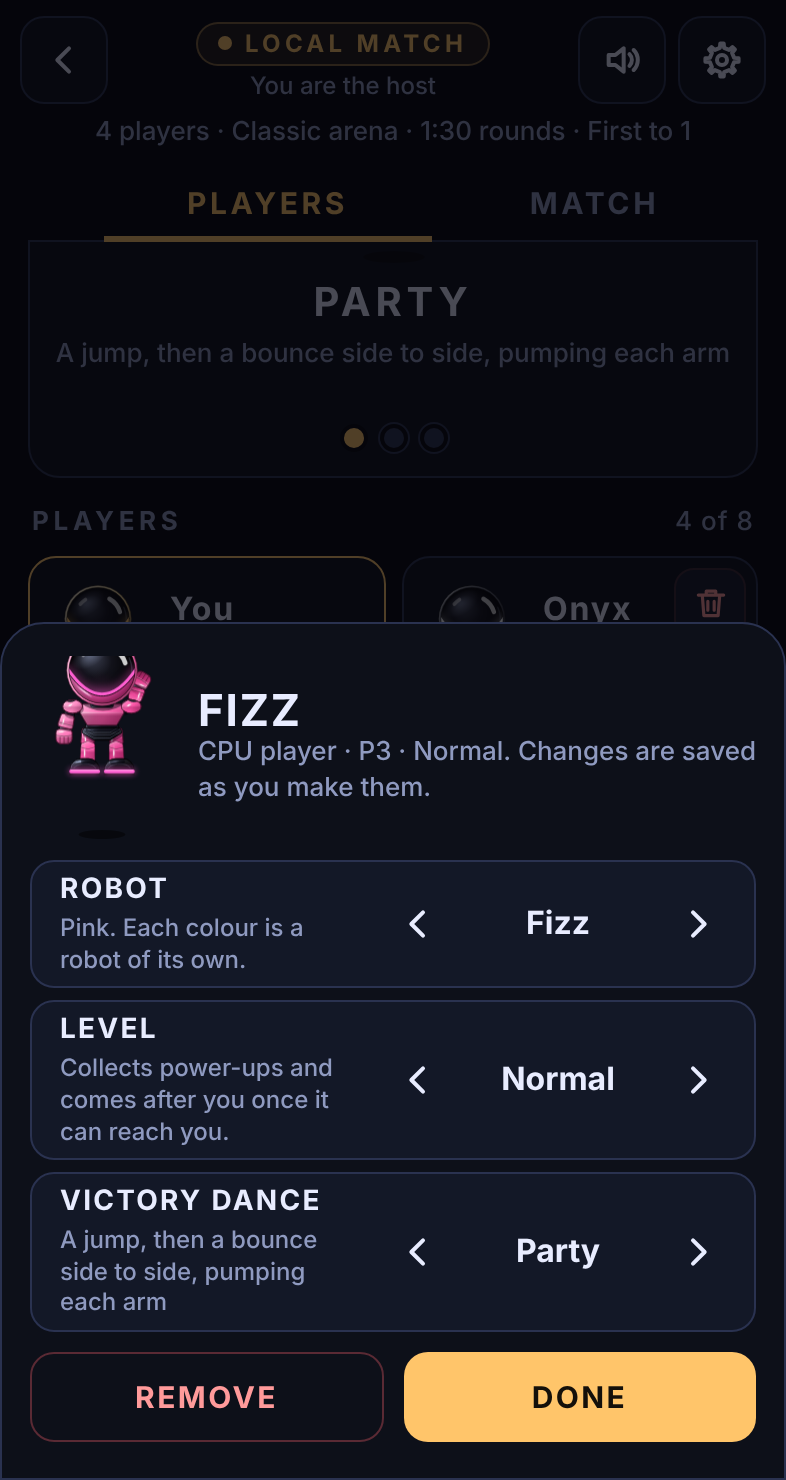
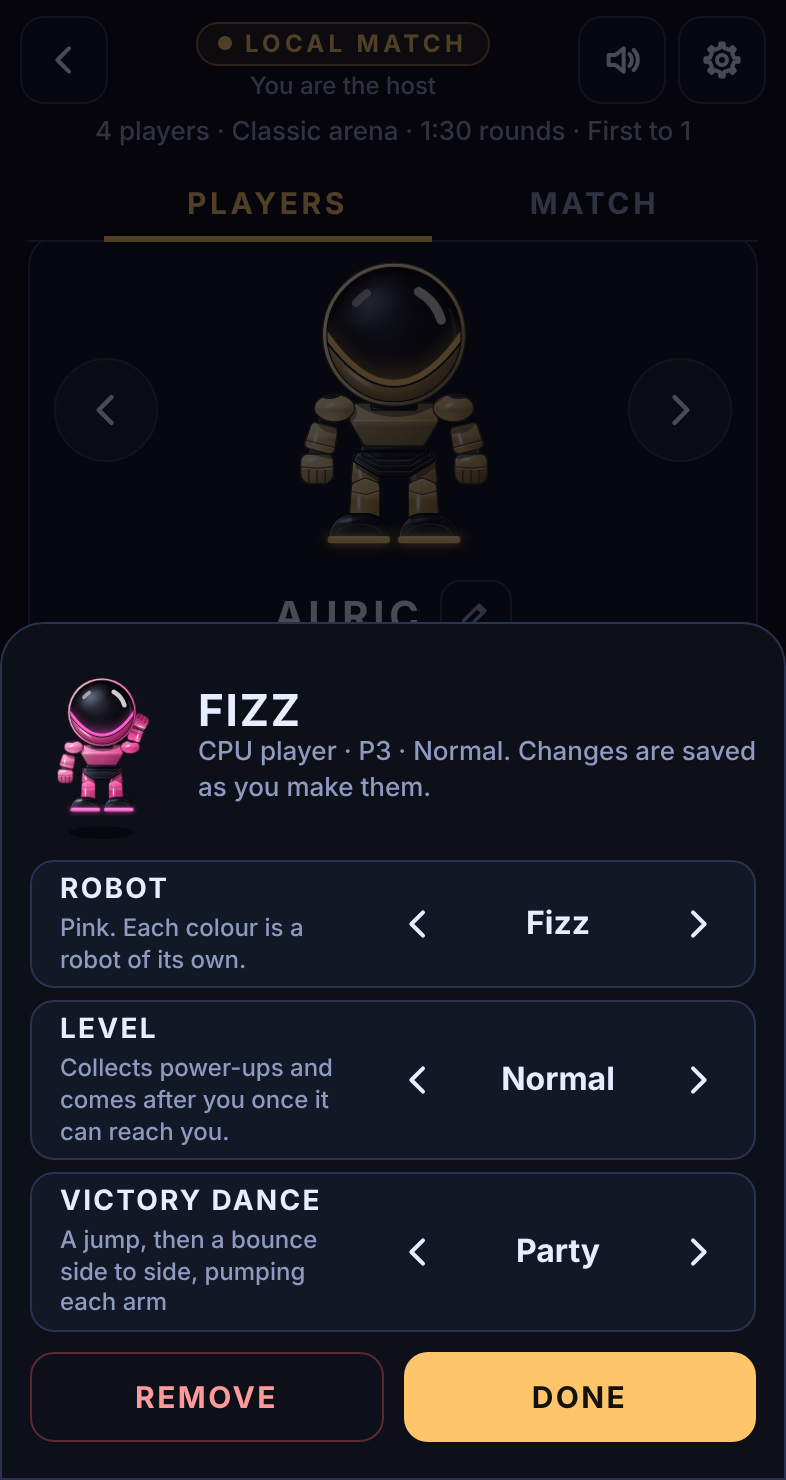
Victory dance as a small option on each player card
- The big Victory dance panel is gone
- Every card has a small ‹ ♪ dance › row along its foot; arrows, a tap on the name or a swipe across
  the card pick it, and the card's robot dances it once through, kept inside the card
- A swipe on a CPU card changes its dance without opening its panel

Claude-Session: https://claude.ai/code/session_011ftAyXDt63myZfd3j4Vhew

diff --git a/src/lobby.ts b/src/lobby.ts
@@ -190,43 +190,16 @@ export function createLobby(host: LobbyHost): {
   $('colNext').addEventListener('click', () => stepMine(1));
   swipeable($('youBot').closest<HTMLElement>('.panel')!, stepMine); // the whole robot panel
 
-  // ------------------------------------------------------------ your victory dance (the owner's ask)
-  // ‹ ›, a dot each, or a swipe anywhere on its panel; it plays over and over in the panel as you look
-  $('dancePrev').addEventListener('click', () => stepMyDance(-1));
-  $('danceNext').addEventListener('click', () => stepMyDance(1));
-  swipeable($('danceBot').closest<HTMLElement>('.panel')!, stepMyDance);
-  for (const d of DANCES) {
-    const b = document.createElement('button');
-    b.type = 'button';
-    b.className = 'dot';
-    b.id = `dance-${d.id}`;
-    b.setAttribute('aria-label', `${d.name} dance`);
-    b.addEventListener('click', () => setMyDance(d.id));
-    $('danceDots').append(b);
+  // ------------------------------------------------------------ victory dances (the owner's design)
+  // Each card has a small ‹ dance › along its foot; arrows, a tap on the name, or a swipe across the card
+  // pick it, and the card's robot then does it once through. Another player here also uses up and down on
+  // their controller. A CPU player's dance is on its panel too, where its robot dances while it is open.
+  /** the cards doing their dance just now, by who (`me`, `g<pad>`, `c<i>`), and since when */
+  const previews = new Map<string, number>();
+  function preview(who: string): void {
+    previews.set(who, performance.now());
+    startDancing();
   }
-  function stepMyDance(d: number): void {
-    setMyDance(stepDance(host.myDance, d));
-  }
-  function setMyDance(id: DanceId): void {
-    if (id === host.myDance) return;
-    host.myDance = id;
-    host.save();
-    danceFrom = performance.now(); // play the new one from its start
-    refreshDance();
-  }
-  function refreshDance(): void {
-    const d = danceOf(host.myDance);
-    $('danceName').textContent = d.name;
-    $('danceBlurb').textContent = d.blurb;
-    $('danceCount').textContent = `${DANCES.indexOf(d) + 1} of ${DANCES.length}`;
-    $('danceBot').setAttribute('aria-label', `Your robot doing the ${d.name} dance`);
-    for (const d2 of DANCES) $(`dance-${d2.id}`).setAttribute('aria-pressed', String(d2.id === d.id));
-  }
-
-  /**
-   * The dances, playing: yours in its panel, each other player's here on their card, and a CPU player's in its
-   * panel while that is open. One loop, while the lobby is showing; a canvas not on screen is skipped.
-   */
   let danceFrom = performance.now();
   let looping = false;
   function danceLoop(now: number): void {
@@ -234,15 +207,83 @@ export function createLobby(host: LobbyHost): {
       looping = false;
       return;
     }
-    const t = (now - danceFrom) / 1000;
-    drawDancer($<HTMLCanvasElement>('danceBot'), pick, host.myDance, t, 0.62);
-    for (const g of guests()) {
-      const cv = document.querySelector<HTMLCanvasElement>(`#guest-${g.pad} canvas`);
-      if (cv) drawDancer(cv, g.pick, g.dance, t, 0.8);
+    for (const [who, from] of previews) {
+      const cv = document.querySelector<HTMLCanvasElement>(`canvas[data-who="${who}"]`);
+      const colour = cardColour(who);
+      if (!cv || !colour) {
+        previews.delete(who);
+        continue;
+      }
+      const t = (now - from) / 1000;
+      const d = cardDance(who);
+      if (t >= PREVIEW[d]) {
+        previews.delete(who);
+        drawBotOn(cv, colour); // done: standing again
+      } else drawDancer(cv, colour, d, t, 0.8);
     }
     const c = s().cpus[editing];
-    if (!sheet.hidden && c) drawDancer($<HTMLCanvasElement>('cpuBot'), c.colorId, c.dance ?? 'party', t, 0.78);
-    requestAnimationFrame(danceLoop);
+    if (!sheet.hidden && c) drawDancer($<HTMLCanvasElement>('cpuBot'), c.colorId, c.dance ?? 'party', (now - danceFrom) / 1000, 0.78);
+    if (previews.size || !sheet.hidden) requestAnimationFrame(danceLoop);
+    else looping = false;
+  }
+  /** whose card: its robot's colour now, and its dance */
+  function cardColour(who: string): string | null {
+    if (who === 'me') return host.myColor;
+    if (who[0] === 'g') return guestOf(Number(who.slice(1)))?.pick ?? null;
+    return s().cpus[Number(who.slice(1))]?.colorId ?? null;
+  }
+  function cardDance(who: string): DanceId {
+    if (who === 'me') return host.myDance;
+    if (who[0] === 'g') return guestOf(Number(who.slice(1)))?.dance ?? 'party';
+    return s().cpus[Number(who.slice(1))]?.dance ?? 'party';
+  }
+  function setCardDance(who: string, id: DanceId): void {
+    if (who === 'me') {
+      host.myDance = id;
+      host.save();
+    } else if (who[0] === 'g') {
+      const g = guestOf(Number(who.slice(1)));
+      if (g) g.dance = id;
+    } else {
+      const c = s().cpus[Number(who.slice(1))];
+      if (!c) return;
+      c.dance = id;
+      host.save();
+      refreshCpu();
+    }
+    const name = document.getElementById(`dp-name-${who}`);
+    if (name) {
+      name.textContent = danceOf(id).name;
+      name.setAttribute('aria-label', `Victory dance: ${danceOf(id).name}. Tap to see it.`);
+    }
+    preview(who);
+  }
+  /** The small ‹ dance › along the foot of a card, and a swipe across the whole card. */
+  function dancePick(wrap: HTMLElement, who: string): void {
+    const row = document.createElement('div');
+    row.className = 'dance-pick';
+    row.setAttribute('role', 'group');
+    row.setAttribute('aria-label', 'Victory dance');
+    const mk = (id: string, html: string, label: string, act: () => void): HTMLButtonElement => {
+      const b = document.createElement('button');
+      b.type = 'button';
+      b.id = id;
+      b.innerHTML = html;
+      b.setAttribute('aria-label', label);
+      b.addEventListener('click', act);
+      return b;
+    };
+    const step = (d: number): void => setCardDance(who, stepDance(cardDance(who), d));
+    const name = mk(`dp-name-${who}`, '', `Victory dance: ${danceOf(cardDance(who)).name}. Tap to see it.`, () => preview(who));
+    name.className = 'dp-name';
+    name.textContent = danceOf(cardDance(who)).name;
+    row.append(
+      mk(`dp-prev-${who}`, '<svg viewBox="0 0 24 24" aria-hidden="true"><path d="M15 5l-7 7 7 7"/></svg>', 'Previous dance', () => step(-1)),
+      name,
+      mk(`dp-next-${who}`, '<svg viewBox="0 0 24 24" aria-hidden="true"><path d="M9 5l7 7-7 7"/></svg>', 'Next dance', () => step(1)),
+    );
+    wrap.append(row);
+    swipeable(wrap, step);
   }
   function startDancing(): void {
     if (looping) return;
@@ -251,8 +292,11 @@ export function createLobby(host: LobbyHost): {
   }
   /** How long each dance plays before it starts again, in the lobby: a whole go, start included. */
   const PREVIEW: Record<DanceId, number> = { party: 3.4, spin: 4.2, griddy: 5.24 };
-  /** A robot doing a dance on a canvas, small enough for its jumps and slides to stay inside. */
-  function drawDancer(cv: HTMLCanvasElement, colorId: string, dance: DanceId, t: number, fill: number): void {
+  /**
+   * A robot doing a dance on a card's canvas: a little smaller than it stands there, and with its jumps
+   * halved, so the jumps and slides stay inside the card.
+   */
+  function drawDancer(cv: HTMLCanvasElement, colorId: string, dance: DanceId, t: number, _fill = 0): void {
     const r = cv.getBoundingClientRect();
     if (r.width < 2 || r.height < 2) return;
     const dpr = host.density();
@@ -265,9 +309,10 @@ export function createLobby(host: LobbyHost): {
     const g = cv.getContext('2d')!;
     g.setTransform(1, 0, 0, 1, 0, 0);
     g.clearRect(0, 0, w, h);
-    const size = Math.min((h * fill) / -ROBOT.top, (w * 0.7) / 0.78);
+    const size = 0.8 * Math.min((h * 0.92) / -ROBOT.top, (w * 0.95) / 0.78); // drawBotOn's size, 80%
     const f = danceFrame(dance, t % PREVIEW[dance]);
-    drawRobot(g, w / 2 + f.dx * size, h * 0.97, size, colorById(colorId), f.facing, f.walk, f.moving, { ...f.pose, fine: false });
+    const pose = { ...f.pose, jump: (f.pose.jump ?? 0) * 0.5, fine: false };
+    drawRobot(g, w / 2 + f.dx * size, h * 0.96, size, colorById(colorId), f.facing, f.walk, f.moving, pose);
   }
   const dots = $('youDots');
   for (const c of COLORS) {
@@ -372,7 +417,12 @@ export function createLobby(host: LobbyHost): {
     mt.innerHTML = `<b></b><small>P1 · you</small><span class="rdy${ready ? ' on' : ''}">${ready ? '✓ Ready' : 'Not ready'}</span>`;
     mt.querySelector('b')!.textContent = host.myName || 'You'; // typed by the player: set as text, never as markup
     me.append(mc, mt);
-    box.append(me);
+    mc.dataset.who = 'me';
+    const meWrap = document.createElement('div');
+    meWrap.className = 'slot-wrap';
+    meWrap.append(me);
+    dancePick(meWrap, 'me');
+    box.append(meWrap);
     const cvs: [HTMLCanvasElement, string][] = [[mc, host.myColor]];
     const lastOne = s().cpus.length + guests().length <= 1;
     guests().forEach((g, gi) => {
@@ -388,8 +438,9 @@ export function createLobby(host: LobbyHost): {
       const on = g.ready && g.pick === g.colorId;
       t.innerHTML = `<b></b><small></small><span class="rdy${on ? ' on' : ''}">${on ? '✓ Ready' : 'Not ready: A'}</span>`;
       t.querySelector('b')!.textContent = looking;
-      t.querySelector('small')!.textContent = `P${n} · ${danceOf(g.dance).name} ↕`; // up and down change it
+      t.querySelector('small')!.textContent = `P${n} · controller ${g.pad + 1}`;
       card.append(cv, t);
+      cv.dataset.who = `g${g.pad}`;
       const bin = document.createElement('button');
       bin.type = 'button';
       bin.className = 'bin';
@@ -401,8 +452,9 @@ export function createLobby(host: LobbyHost): {
       const wrap = document.createElement('div');
       wrap.className = 'slot-wrap';
       wrap.append(card, bin);
+      dancePick(wrap, `g${g.pad}`);
       box.append(wrap);
-      // (drawn by the dance loop: it does its dance)
+      cvs.push([cv, g.pick]);
     });
     s().cpus.forEach((c, i) => {
       const b = document.createElement('button');
@@ -414,6 +466,7 @@ export function createLobby(host: LobbyHost): {
       const t = document.createElement('div');
       t.innerHTML = `<b>${botName(colorById(c.colorId))}</b><small>P${cpuP(i)} · ${LEVELS[c.level].label}</small><span class="rdy on">✓ Ready</span>`;
       b.append(cv, t);
+      cv.dataset.who = `c${i}`;
       b.addEventListener('click', () => openSheet(i));
       // the bin: removes this CPU player at once (Undo brings it back)
       const bin = document.createElement('button');
@@ -427,6 +480,7 @@ export function createLobby(host: LobbyHost): {
       const wrap = document.createElement('div');
       wrap.className = 'slot-wrap';
       wrap.append(b, bin);
+      dancePick(wrap, `c${i}`);
       box.append(wrap);
       cvs.push([cv, c.colorId]);
     });
@@ -485,11 +539,14 @@ export function createLobby(host: LobbyHost): {
         s().cpus[editing].dance = DANCES[i].id;
         danceFrom = performance.now();
         changed();
+        startDancing();
       },
     }),
   ];
   const refreshCpu = mount($('cpuRows'), cpuOpts);
   function openSheet(i: number): void {
+    danceFrom = performance.now(); // its robot dances its dance while the panel is open
+    queueMicrotask(startDancing);
     editing = i;
     sheet.hidden = false;
     refresh();
@@ -796,10 +853,7 @@ export function createLobby(host: LobbyHost): {
   /** That player's up or down: the next dance, played on their card from its start. */
   function guestDance(pad: number, d: number): void {
     const g = guestOf(pad);
-    if (!g) return;
-    g.dance = stepDance(g.dance, d);
-    danceFrom = performance.now();
-    buildSlots();
+    if (g) setCardDance(`g${pad}`, stepDance(g.dance, d));
   }
   /** Ready: the robot that player is showing becomes theirs. A CPU player wearing it takes the one they had. */
   function guestReady(pad: number): void {
@@ -921,9 +975,7 @@ export function createLobby(host: LobbyHost): {
       }
       $('lobby').hidden = false;
       nameBox.hidden = true;
-      refreshDance();
-      danceFrom = performance.now();
-      startDancing();
+      previews.clear();
       $('youName').hidden = false;
       setPage(p ?? page);
       $(page === 'players' && !wide() ? 'colOk' : 'arenaStart').focus({ preventScroll: true });

diff --git a/src/page.html b/src/page.html
@@ -20,8 +20,8 @@
     touch     on-screen controls: dzone (swipe pad, with the dpad cross and the padTag caption inside it), btnA, btnB
     lobby     setting up a match (lobby.ts): the bar (lobbyBack, lobbyMode, lobbySound, lobbySettings), the summary,
               lobbyPrev (‹ beside the page names) and two pages (pgPlayers, pgMatch): lobbyPlayers (your robot youBot with colPrev, colNext and the colour
-              dots youDots; the name over them, youName, with editName, the pencil that swaps it for a box (myName) to type your own; your victory
-              dance: danceBot playing it, dancePrev, danceNext, danceName, danceBlurb, danceDots; the player cards in slots; allCpus) and lobbyMatch (the arena picture arenaPic with
+              dots youDots; the name over them, youName, with editName, the pencil that swaps it for a box (myName) to type your own; the player
+              cards in slots, each with its victory dance along its foot (dp-prev-, dp-name-, dp-next-); allCpus) and lobbyMatch (the arena picture arenaPic with
               arenaPrev, arenaNext, arenaDots, and a Start under it, arenaStart; the rules; rulesReset; startNote and lobbyStart, Start again at the end); playersNext ends lobbyPlayers
     cpuSheet  a CPU player's panel, over the lobby: colour and level (cpuRows), cpuRemove, cpuDone
     settings  your own settings, four pages: setControls (Steering thumb: handLeft, handRight; Swipe
@@ -450,9 +450,6 @@
   .panel { background: var(--panel); border: 1px solid var(--line); border-radius: 16px; padding: 12px; display: flex; flex-direction: column; align-items: center; gap: 8px; }
   .you-row { width: 100%; display: flex; align-items: center; justify-content: space-between; gap: 6px; }
   #youBot { width: 150px; height: 150px; }
-  /* the victory dance playing: room for its jumps and slides */
-  #danceBot { flex: 1 1 auto; min-width: 0; max-width: 220px; height: 150px; }
-  #danceBlurb { min-height: 2.7em; }
   /* the arena picture fills the row between its arrows (bigger, the owner's ask) */
   #arenaPic { flex: 1 1 auto; min-width: 0; width: 100%; max-width: 340px; aspect-ratio: 15 / 13; border-radius: 8px; }
   .panel.arena .you-row { gap: 4px; }
@@ -523,6 +520,13 @@
   .slot-wrap .slot { padding-right: 8px; }
   .slot-wrap .slot b { padding-right: 32px; }
   .slot small { white-space: nowrap; }
+  /* each card's victory dance, a small ‹ name › along its foot (the owner's design); the card above makes room */
+  .slot-wrap .slot { padding-bottom: 40px; }
+  .dance-pick { position: absolute; left: 1px; right: 1px; bottom: 1px; height: 32px; display: grid; grid-template-columns: 34px minmax(0, 1fr) 34px; align-items: stretch; border-top: 1px solid var(--line); border-radius: 0 0 13px 13px; background: #121726; touch-action: pan-y; }
+  .dance-pick button { display: grid; place-items: center; padding: 0; cursor: pointer; color: var(--ink-dim); background: transparent; border: 0; }
+  .dance-pick button svg { width: 15px; height: 15px; fill: none; stroke: currentColor; stroke-width: 2.6; stroke-linecap: round; stroke-linejoin: round; }
+  .dance-pick .dp-name { display: block; line-height: 32px; overflow: hidden; white-space: nowrap; text-overflow: ellipsis; font: 700 12px/1 var(--font-display); letter-spacing: 0.1em; text-transform: uppercase; color: var(--ink); }
+  .dance-pick .dp-name::before { content: '♪ '; color: var(--accent); }
   .bin { position: absolute; top: 6px; right: 6px; width: 36px; height: 36px; display: grid; place-items: center; padding: 0; cursor: pointer; color: #ff9a9a; background: #151a28; border: 1px solid #3a2530; border-radius: 10px; }
   .bin svg { width: 19px; height: 19px; fill: none; stroke: currentColor; stroke-width: 2; stroke-linecap: round; stroke-linejoin: round; }
   .bin:disabled { opacity: 0.25; cursor: default; }
@@ -633,7 +637,6 @@
     .go.big { padding: 9px 10px; font-size: 15px; }
     .side-btn { height: 36px; }
     #youBot { width: 110px; height: 110px; }
-    #danceBot { height: 120px; }
     #arenaPic { max-width: 62vh; } /* sideways: as big as the short screen allows */
     .standings { display: grid; grid-template-columns: repeat(2, minmax(0, 1fr)); }
     .pause-card { width: min(100%, 620px); gap: 8px; padding: 12px 14px; }
@@ -787,17 +790,6 @@
           <p class="hint center" id="youState" aria-live="polite"></p>
           <div class="dots" id="youDots" role="group" aria-label="Colours: under each, the player who wears it"></div>
           <button class="go ok" id="colOk" type="button" data-pad="Y">Ready</button>
-        </div>
-        <div class="sec-head"><span>Victory dance</span><span id="danceCount"></span></div>
-        <div class="panel dance">
-          <div class="you-row">
-            <button class="round-btn" id="dancePrev" type="button" aria-label="Previous dance"><svg viewBox="0 0 24 24" aria-hidden="true"><path d="M15 5l-7 7 7 7"/></svg></button>
-            <canvas id="danceBot" role="img" aria-label="Your robot dancing"></canvas>
-            <button class="round-btn" id="danceNext" type="button" aria-label="Next dance"><svg viewBox="0 0 24 24" aria-hidden="true"><path d="M9 5l7 7-7 7"/></svg></button>
-          </div>
-          <div class="big-name" id="danceName"></div>
-          <p class="hint center" id="danceBlurb"></p>
-          <div class="dots small" id="danceDots" role="group" aria-label="Dances"></div>
         </div>
         <div class="sec-head"><span>Players</span><span id="playerCount"></span></div>
         <div class="slots" id="slots"></div>

diff --git a/CLAUDE.md b/CLAUDE.md
@@ -39,7 +39,7 @@ Do not undo these unless asked. The reasons are in `docs/ROADMAP.md` and `docs/C
 - A resting thumb has a quiet zone; small movements, slow drift and bounce-back are ignored. Its size is fixed (`QUIET` 30 px). A menu choice of swipe length was tried and removed: do not bring it back unless asked.
 - The Players page has no explanations (the owner's call): no help paragraphs, only a short "Swaps with P3" under your robot's name when Ready would swap with a CPU player. Settings' icon is a gear.
 - The lobby (`lobby.ts`, setup in `setup.ts`), built to the owner's notes on an approved mockup: every button works, back and forward work, more than one way to do each thing, a switch that reveals a slider under it, more options, each CPU player's level its own, and saying whether play is local or online. Two pages, Players and Match. The Players page cannot start a match (the owner's call); its ways on are Next › (Ready, once pressed, and the one at the end of the page), the Match page name, and RB or E. The lobby has no fixed bottom bar (the owner's ask): each page ends with its button, seen once scrolled down: Next › (`playersNext`, dim until you are ready) and Start (`lobbyStart`, after the rules). The Settings bottom bar is slim. The Match page's way back to Players is a ‹ at the top left beside the page names (`lobbyPrev`, the owner's ask); there is also a Start right under the arena picture (the owner's ask, to be close to hand; `arenaStart`, the same `tryStart`); Start when you are not ready asks first ("Are you ready?", its button just **Ready & Start**, no robot names, the owner's wording; the same button when other players here are not ready), and a line above the bar says you are not ready. On a wide screen both pages show side by side and the button is Start. Players: your colour by ‹ ›, dots or a swipe; once you press Ready the button becomes **Next ›**, on to the Match page (the owner's ask; just ✓ Ready on a wide screen); a card per player; a CPU player's panel (Colour, Level, Remove, Done); Add CPU player up to seven (eight players in all: the owner's limit); a bin on each CPU player's card removes it at once, with Undo; All CPUs. Match (the host's): the arena (Compact, Classic, Big) and the rules (Round timer with length and Closing in, Rounds to win, Bricks, Custom start, Custom power-ups; Put the rules back to normal). Sliders have − and + beside them. Saved as it changes. Build any new setting from `ui.ts` controls, and only add one that really does something.
-- Victory dances (`src/dances.ts`, pure; the owner asked for two more, one of them trendy): Party (the first: a jump with one arm up, then bouncing side to side pumping each arm), Spin (two turns in a big jump, then both arms up, ta-da) and Griddy (the trendy one, the touchdown dance: quick steps on the spot, arms swinging with the steps, sliding side to side). The Players page has a Victory dance panel under your robot: ‹ ›, a dot each, or a swipe on the panel, with your robot doing it over and over (one animation loop in `lobby.ts`, while the lobby shows). Yours is saved as `myDance`; a CPU player's is a Victory dance choice on its panel (`CpuSlot.dance`, Party if none); another player here changes theirs with up and down on their controller and their card dances it. Dances stick to a few arm heights so each needs only a handful of sprites (`tests/dances.test.ts` checks it); `warmSprites` makes the winner's ahead of time (`Wanted.moves`).
+- Victory dances (`src/dances.ts`, pure; the owner asked for two more, one of them trendy): Party (the first: a jump with one arm up, then bouncing side to side pumping each arm), Spin (two turns in a big jump, then both arms up, ta-da) and Griddy (the trendy one, the touchdown dance: quick steps on the spot, arms swinging with the steps, sliding side to side). Each player card has a small ‹ ♪ dance › row along its foot (the owner's design, from a screenshot: not a big panel of its own, which was tried and removed). Its arrows, a tap on the name, or a swipe across the whole card pick it (a swipe on a CPU card does not open its panel), and the card's robot then does the dance once through, a little smaller and with its jumps halved so it stays inside the card (`dancePick`, `previews`, `drawDancer` in `lobby.ts`). Yours is saved as `myDance`; a CPU player's (`CpuSlot.dance`, Party if none) is also on its panel, where its robot dances while open; another player here also uses up and down on their controller. Dances stick to a few arm heights so each needs only a handful of sprites (`tests/dances.test.ts` checks it); `warmSprites` makes the winner's ahead of time (`Wanted.moves`).
 - Swipes in the lobby (`swipeable` in ui.ts) work on the whole robot panel and the whole arena panel (the owner found the picture alone too small to hit): 28 pixels sideways counts at once, followed outside the panel, and a swipe starting on a button inside does not press it. Under the arena's name only its size, "13 × 11" (the owner's ask: no other words). The arena picture fills the row between smaller arrows, up to 340 px (62vh sideways).
 - Each colour is a robot with a name of its own (`bot` in `COLORS`, `botName` in `render.ts`; Claude's names, asked for by the owner): Gold Auric, Black Onyx, Pink Fizz, Blue Volt, Red Blaze, Orange Tango, White Frost, Green Gizmo, Purple Vortex. The menus and results use these names in place of colour words: the big name over the colour dots in the lobby, the player cards, a CPU player's panel (its Robot choice), the menu's standings, "Volt wins the round", "Caught in Fizz's blast". A CPU player's name is its robot's, so it changes with its colour.
 - You can type your own name: the pencil beside the name over the colour dots swaps it for a box (`myName`; up to 12 characters, saved as `playerName`; Enter, a tap elsewhere or the pencil again finishes; emptied, it goes back to the robot's name). It shows there, on your player card and in the menu's standings in place of the robot's name or "You" (the owner's design, in place of a "Your name" row); results still say "You". Online, every real player will type theirs there. A typed name is always set as text, never as markup, and the game's keys (moves, A, B, Q, E) are ignored while typing (`typing` in `input.ts`).

diff --git a/docs/CONTROLS.md b/docs/CONTROLS.md
@@ -48,7 +48,7 @@ The caption on the swipe pad (*Standard swipes* or *My thumb swipes*) is centred
 
 **Local** on the title screen opens the **lobby**, where a match is set up. It has two pages, **Players** and **Match**. The page names along the top switch pages, and on the Match page a **‹** at the top left, beside them, goes back to Players. There is no bar fixed at the bottom: each page ends with its own button, there once you scroll down. The Players page ends with **Next ›**, dim until you press **Ready** and lit after, which goes on to the Match page; Ready itself becomes **Next ›** too, and tapping **Match** along the top works as well. The Match page has **Start** right under the arena picture and again at the end, after the rules. Either Start, when you are not ready, asks first. On a wide screen both pages show side by side.
 
-- **Players:** your robot, with ‹ › either side, a dot for each colour under it, and a sideways swipe anywhere on the robot's panel (it counts once the finger has gone a short way, and a swipe that starts on a dot or on Ready does not press it): three ways to pick a colour. Under it, the **Victory dance** panel: ‹ ›, a dot each, or a swipe anywhere on it picks the dance you do when you win a round (Party, Spin, Griddy), and your robot does it over and over there. Each colour is a robot with its own name (Auric, Onyx, Fizz, Volt, Blaze, Tango, Frost, Gizmo, Vortex), shown over the dots and on the cards. The **pencil** beside that name lets you type your own name in its place. It shows on your robot, and becomes yours when you press **Ready** (or double-tap the dot): a **P1** tag pops up under it, your card shows **✓ Ready**, and the Ready button becomes **Next ›** (on a wide screen, where both pages show, it says **✓ Ready**). **P2** to **P8** sit under the CPU players' colours, and CPU players are always ready. Take a CPU player's colour and it gets the one you had. Picking another colour takes Ready away until you press it again. This page has no Start: its bottom bar is one wide **Match ›** button. Then a card for each player. Tap a CPU player's card for its panel: Colour, Level (with what that level does), Remove and Done. The **bin** on a CPU player's card removes it at once; an **Undo** bar shows for a few seconds. **Add CPU player** adds one, up to seven (eight players in all). With more than six players the arena grows by two tiles each way. **All CPUs** sets every CPU player's level at once.
+- **Players:** your robot, with ‹ › either side, a dot for each colour under it, and a sideways swipe anywhere on the robot's panel (it counts once the finger has gone a short way, and a swipe that starts on a dot or on Ready does not press it): three ways to pick a colour. Each colour is a robot with its own name (Auric, Onyx, Fizz, Volt, Blaze, Tango, Frost, Gizmo, Vortex), shown over the dots and on the cards. The **pencil** beside that name lets you type your own name in its place. It shows on your robot, and becomes yours when you press **Ready** (or double-tap the dot): a **P1** tag pops up under it, your card shows **✓ Ready**, and the Ready button becomes **Next ›** (on a wide screen, where both pages show, it says **✓ Ready**). **P2** to **P8** sit under the CPU players' colours, and CPU players are always ready. Take a CPU player's colour and it gets the one you had. Picking another colour takes Ready away until you press it again. This page has no Start. Then a card for each player. Along the foot of every card is its **victory dance** (♪ Party, Spin or Griddy), what that player does on winning a round: its ‹ ›, or a swipe across the card, change it, and the card's robot then does it once through (tap the dance's name to see it again). Tap a CPU player's card for its panel: Colour, Level (with what that level does), Victory dance (its robot dances it there), Remove and Done. The **bin** on a CPU player's card removes it at once; an **Undo** bar shows for a few seconds. **Add CPU player** adds one, up to seven (eight players in all). With more than six players the arena grows by two tiles each way. **All CPUs** sets every CPU player's level at once.
 - **Match** (the host's): the arena, with ‹ ›, dots or a swipe anywhere on its panel; the picture fills the space between the arrows, and under its name is just its size, such as 13 × 11 (Compact 11 by 9 tiles, Classic 13 by 11, Big 15 by 13; the picture is the real arena, with the bricks the rules ask for), then the rules: Round timer (a switch; when on, Round length and Closing in appear under it; picking an arena puts in its own round length and closing speed), Rounds to win, Bricks, Custom start (a switch; Bombs, Blast and Speed under it), Custom power-ups (a switch; a slider for each power-up under it). **Put the rules back to normal** asks first.
 - Every slider has − and + beside it, and every setting is saved on this device as it changes.
 

diff --git a/docs/ROADMAP.md b/docs/ROADMAP.md
@@ -137,7 +137,7 @@ This is the brief the project started from.
 | Your name by a pencil, and no explanations on the Players page | The owner's design: a small pencil beside the name over the colour dots lets you type your own name in its place (a first version had a "Your name" row). The help paragraphs on the Players page were removed as unnecessary; only "Swaps with P3" shows when Ready would take a CPU player's colour. The Settings button is a gear. |
 | Each arena has its own time and closing speed | The owner asked for the rules to scale with the arena, and chose them one by one: Compact 1:00 rounds with the blocks closing in slightly faster (Quick, 42 s), Classic as it was (1:30, Normal 50 s), Big 2:00 with the same closing speed as Classic. They are put in every time an arena is picked, and can be changed after. Bricks and power-ups stay as they are, since they already scale with the number of tiles. Closing in gained two steps for this (Slow 60 s, Quick 42 s), and the old Slow and Fast became Very slow and Fast. (Claude had suggested Fast for Compact and Slow for Big, which would land blocks about 0.5 s apart on every arena; the owner chose otherwise.) |
 | Rounds to win is 1 by default | The owner's call: a match is one round unless the lobby says otherwise (it was first to 3). Setups saved before the change have their Rounds to win put back to 1 (`SETUP_VERSION` in `setup.ts`). |
-| Victory dances | The owner asked for two more winning dances, one of them trendy, picked by each player in the lobby with arrows or a swipe, and played as you look through them. Party (the first), Spin, and the Griddy (the trendy one). Yours on the Players page; a CPU player's on its panel; another player here with up and down on their controller. |
+| Victory dances | The owner asked for two more winning dances, one of them trendy, picked by each player in the lobby with arrows or a swipe, and played as you look through them. Party (the first), Spin, and the Griddy (the trendy one). At first a big panel of its own under your robot; the owner asked for it to be a small option on each player card instead, as it is now: ‹ ♪ dance › along the foot of every card, a swipe across the card, and the card's robot dances it once through. A CPU player's is on its panel too; another player here can also use up and down on their controller. |
 | Lobby buttons at the end of each page | The owner's ask: no bar fixed at the bottom of the lobby. The Players page ends with Next ›, dim until you press Ready; the Match page ends with Start, after the rules (and Start stays under the arena). |
 | Slim bottom bars, ‹ at the top, Ready then Next | The owner's ask: the bottom bars are smaller; the Match page's way back to Players is a ‹ at the top left, beside the page names, not in the bottom bar; once you press Ready it becomes Next ›, which goes to the Match page. |
 | A second Start under the arena | The owner's ask, so Start is close to hand on the Match page: a full-width Start under the arena picture, doing exactly what the Start in the bottom bar does. |
